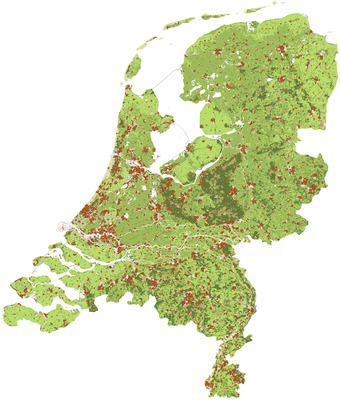
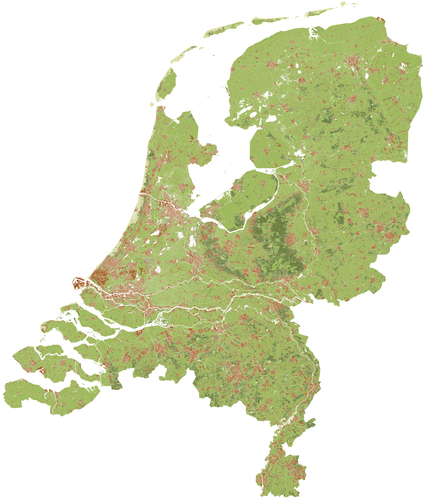
terrain use added, thumbnail

Changed region(s): [[0.0, 0.03, 1.0, 1.0], [0.3529, 0.15, 0.4118, 0.18]]

diff --git a/_maps/landgebruik.md b/_maps/landgebruik.md
@@ -1,5 +1,26 @@
 ---
 title: Landgebruik
 name: terrain
-scale: 100 000
+scale: 10 000
+sizes:
+  - title: Klein
+    url: https://s3.eu-central-1.amazonaws.com/atlas-novus/terrein-TOP10-klein.png
+    size: "5,6"
+    width: 2125
+    height: 2500
+  - title: Middel
+    url: https://s3.eu-central-1.amazonaws.com/atlas-novus/terrein-TOP10-middel.png
+    size: "20,7"
+    width: 4250
+    height: 5000
+  - title: Groot
+    url: https://s3.eu-central-1.amazonaws.com/atlas-novus/terrein-TOP10-groot.png
+    size: "67,7"
+    width: 8500
+    height: 10000
+  - title: Poster
+    url: https://s3.eu-central-1.amazonaws.com/atlas-novus/terrein-TOP10-poster.png
+    size: "192,7"
+    width: 17000
+    height: 20000
 ---
